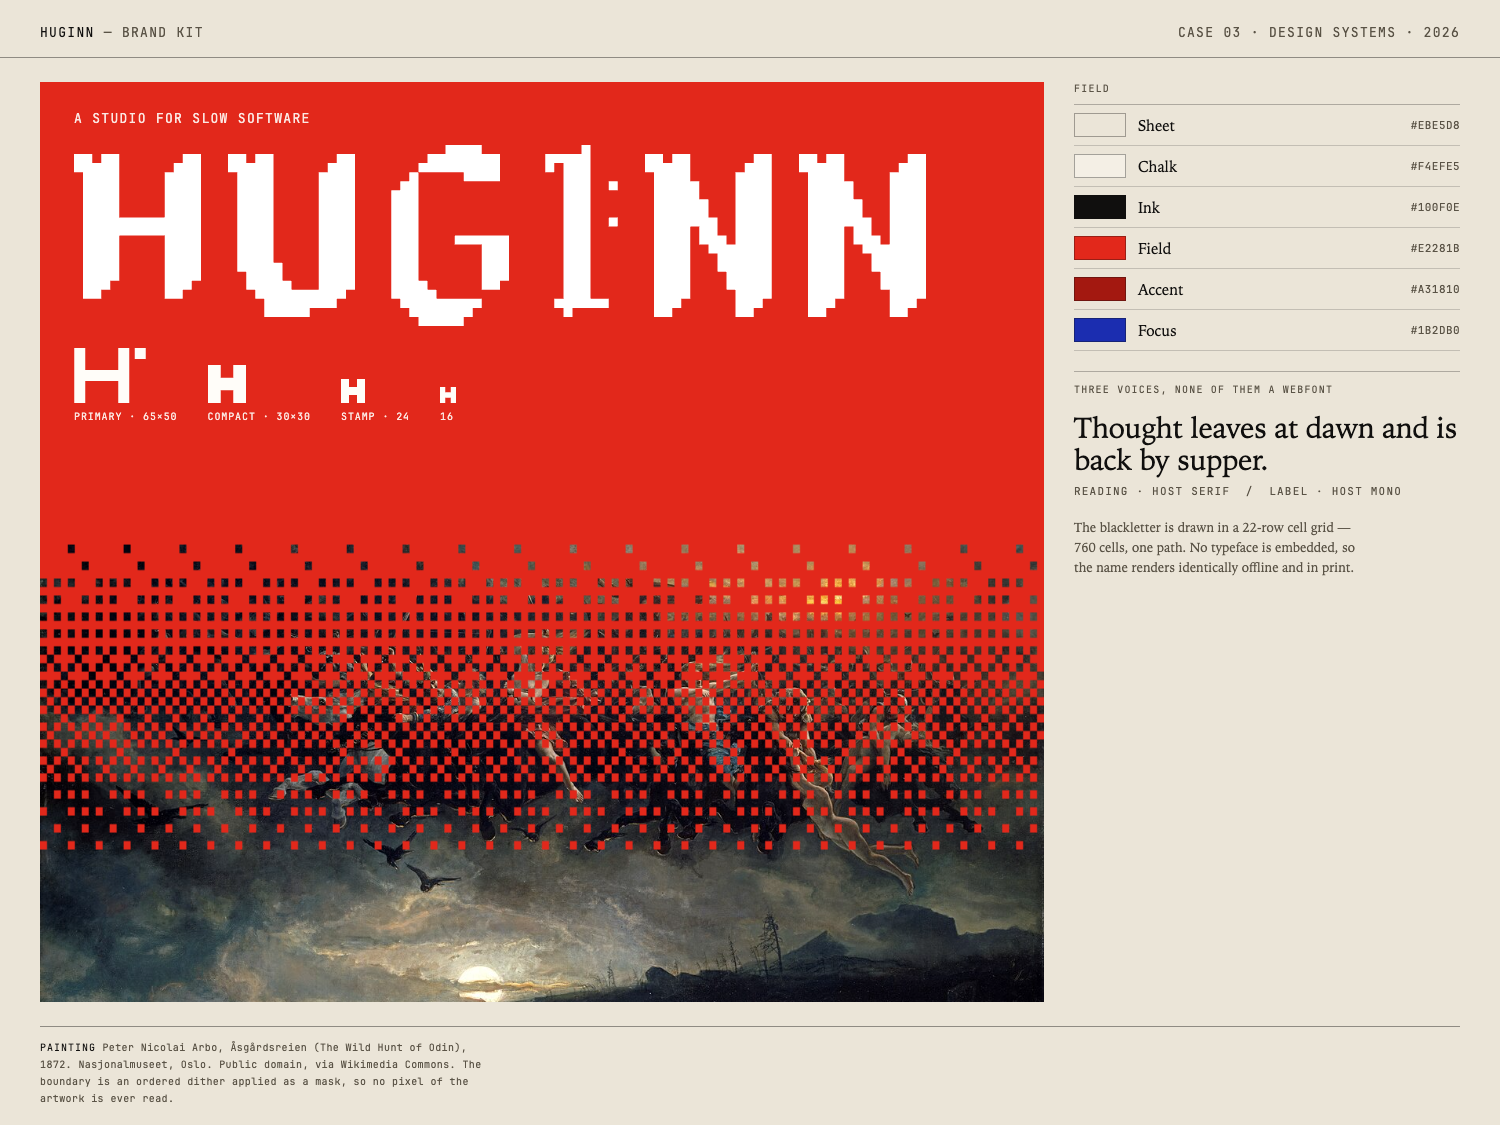
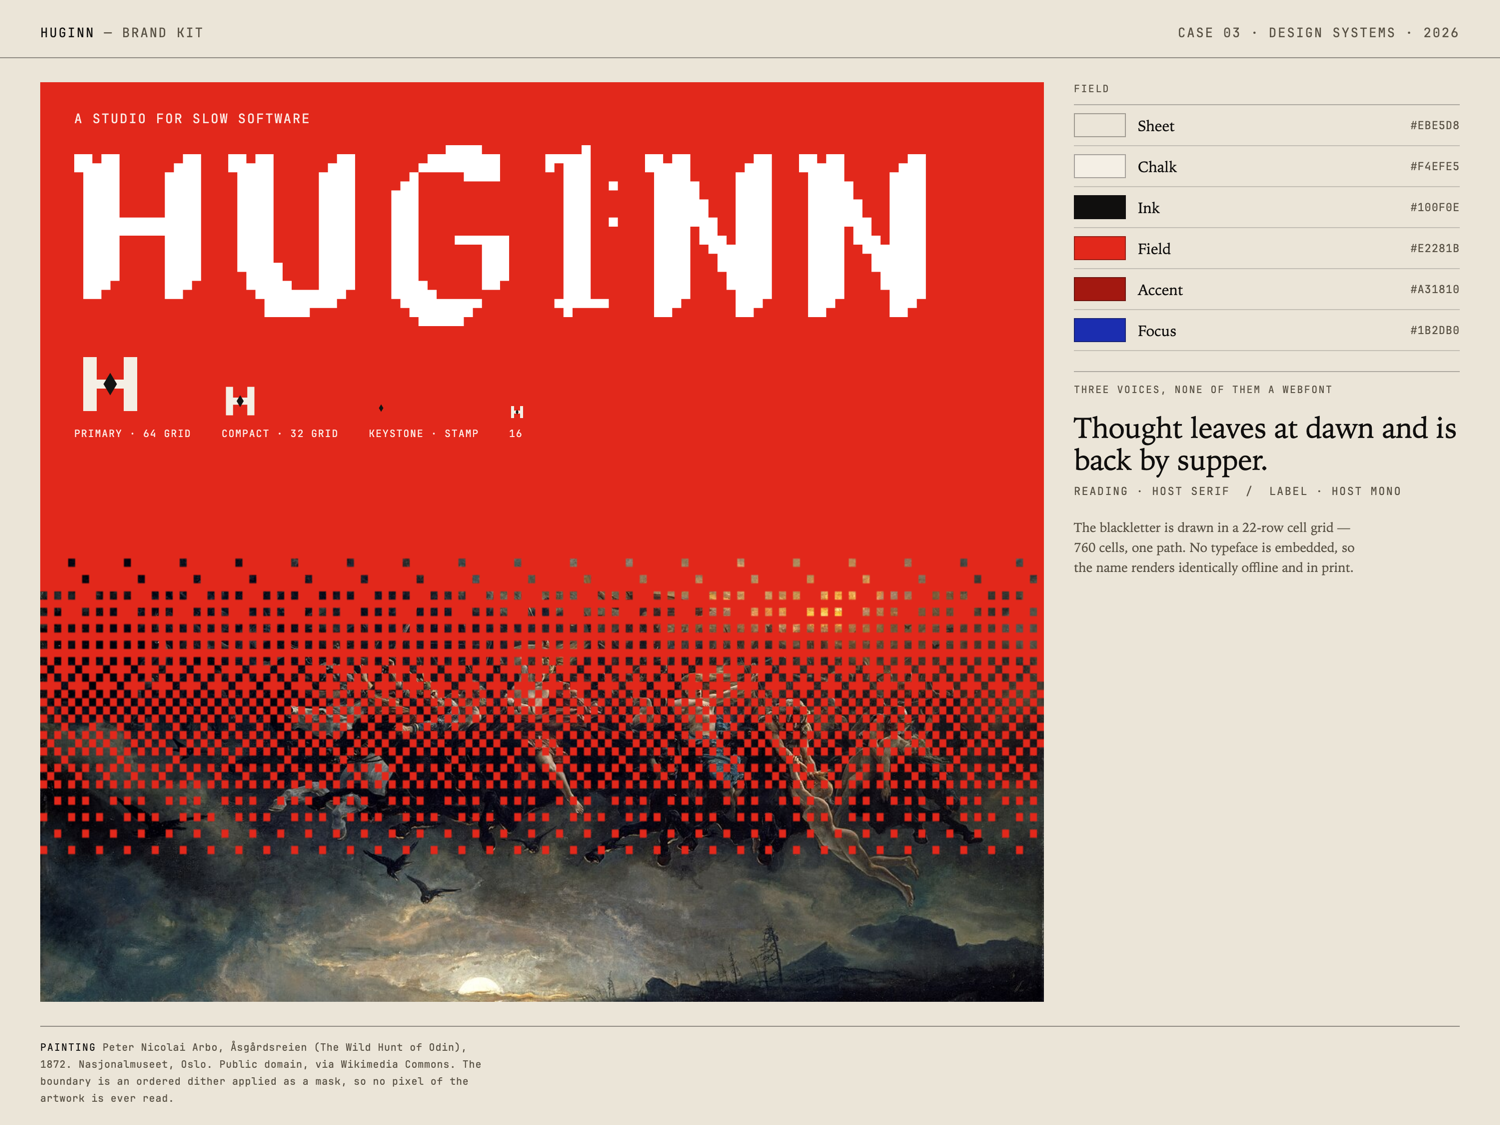
feat(huginn): replace the two-disc lens with an architectural H
Two solid L-brackets face each other into the H; the bridge is a vermilion
diamond keystone (#E03C1F) and the counters are the negative space. No circle,
no stroke, no detached part.

- scripts/build-huginn-mark.mjs is the single source: mark, compact (32 grid,
  wider channels), keystone, mono, lockup, favicons 16/32/180 and the specimen
  symbols.
- the specimen sets --hug-mark-ink/-key so the mark is #141413 on paper and
  #F4EFE5 on night while the keystone stays vermilion.
- DESIGN, brief, README, audit, llms and the board describe the bracket H; the
  cell-grid rule keeps the bracket H as its one named exception.

diff --git a/features/design-engineering/design-engineering-data.ts b/features/design-engineering/design-engineering-data.ts
@@ -357,13 +357,13 @@ export const HUGINN_CASE = {
   library: '/design-system',
   cover: '/brand/huginn/huginn-brandkit.png',
   coverAlt:
-    'The Huginn brand board: the missing-cell mark, the drawn blackletter wordmark, the vermilion field and the painting dissolving into it through an ordered dither.',
+    'The Huginn brand board: the two-bracket keystone mark, the drawn blackletter wordmark, the vermilion field and the painting dissolving into it through an ordered dither.',
   brief:
     'Give a two-city software studio an identity that depends on a drawing rather than a font: one bone sheet, one vermilion field, a blackletter wordmark cut into a 22-row cell grid, and a painting dissolved into that field by an ordered dither. The case proves the language with a native form kit and a configurable footer, then measures what it shipped.',
   decisions: [
     {
-      title: 'The missing cell is the logo.',
-      line: 'The H sits one half-cell to the right of its stem, still in the air. The omission is why the mark reads at 16px, and why it is never redrawn or cleaned up.',
+      title: 'Two brackets, one bridge.',
+      line: 'The H is cut into two interlocking L-beams; the vermilion diamond keystone is the only loud thing. No strokes, no circles, and the compact widens the channels.',
     },
     {
       title: 'The wordmark is a drawing, not a face.',
@@ -397,7 +397,7 @@ export const RISO_CASE = {
   library: '/design-system',
   cover: '/brand/riso/riso-brandkit.png',
   coverAlt:
-    'The Riso Co. brand board: a fluorescent orange sheet pulled 2.2mm off its federal blue pass, the deckle-edged mark on a 64-unit grid, five ink chips, the outlined wordmark at three favicon sizes, and the torn sheet edge.',
+    'The Riso Co. brand board: a fluorescent orange sheet pulled 2.2mm off its federal blue pass, the two-sheet overprint mark, five ink chips, the outlined wordmark at three favicon sizes, and the torn sheet edge.',
   brief:
     'A risograph prints one drum at a time, so the second impression never lands exactly on the first. Most digital riso pastiche hides that; Riso Co. makes it the rule. Every element is printed twice — fluorescent orange and federal blue — and the 2.5px misregistration is the identity rather than a defect to be corrected.',
   decisions: [
@@ -406,8 +406,8 @@ export const RISO_CASE = {
       line: 'One CSS variable, `--rs-reg`, offsets every display element. A slider in the specimen runs 0–6px so the reader can pull the sheet back into register and watch the idea disappear.',
     },
     {
-      title: 'The mark is the sheet, not a letter.',
-      line: 'A drawn two-pass rectangle on a 64-unit grid, its bottom edge carrying seven ridge points and two deep bites. One path with two strokes, so it still reads at 16px where a monogram would turn to mud.',
+      title: 'The mark is the press behaviour.',
+      line: 'Two sheared sheets are the two drum passes; the overlap is a solid overprint polygon. No strokes, no circles, so the mark survives a favicon and a PDF.',
     },
     {
       title: 'The overprint is measured, not blended.',
@@ -415,7 +415,7 @@ export const RISO_CASE = {
     },
   ],
   outcomes: [
-    'A mark family at 64/32/16px plus a registration target, an outlined wordmark and a lockup — all SVG, no live text, no webfont dependency.',
+    'A mark family at 64/32/16px plus a mono union, an outlined wordmark and a lockup — all SVG, no live text, no webfont dependency.',
     'Three token layers with 16 contrast pairs computed in the build rather than typed, including the one pair that fails: orange as body type at 2.88:1, documented as fills-only.',
     'A native form kit with default, focus, invalid, disabled and success states, and an error summary that moves focus to the first bad field.',
     'The pushpin tear footer rebuilt as a print specimen, with a seed control that re-tears the sheet on demand.',

diff --git a/features/case-library/cases.ts b/features/case-library/cases.ts
@@ -63,7 +63,7 @@ export const DESIGN_CASES: readonly DesignCase[] = [
     material: 'Paper + ink + vermilion',
     cover: '/brand/huginn/huginn-brandkit.png',
     coverAlt:
-      'The Huginn brand board: the missing-cell mark, the drawn blackletter wordmark, the vermilion field, and the painting dissolving into it through an ordered dither.',
+      'The Huginn brand board: the two-bracket keystone mark, the drawn blackletter wordmark, the vermilion field, and the painting dissolving into it through an ordered dither.',
     tags: ['Print', 'Dither', 'Blackletter', 'Forms'],
     tone: 'huginn',
   },
@@ -79,7 +79,7 @@ export const DESIGN_CASES: readonly DesignCase[] = [
     material: 'Paper + orange + blue',
     cover: '/brand/riso/riso-brandkit.png',
     coverAlt:
-      'The Riso Co. brand board: an orange sheet pulled 2.2mm off its blue pass, the deckle-edged mark, five ink chips, the outlined wordmark at three favicon sizes and a torn sheet edge.',
+      'The Riso Co. brand board: an orange sheet pulled 2.2mm off its blue pass, the two-sheet overprint mark, five ink chips, the outlined wordmark at three favicon sizes and a torn sheet edge.',
     tags: ['Risograph', 'Misregistration', 'Overprint', 'Deckle Tear'],
     tone: 'riso',
   },
@@ -89,13 +89,13 @@ export const DESIGN_CASES: readonly DesignCase[] = [
     href: '/design-system/hachure',
     tagline: 'Relief drawn by density, never by shadow.',
     description:
-      'A cartographic interface system built from the supplied ridgeline footer: six ridges from one seed, seven tones from one paper, an H that prints into its own paper, and a footer you can read an altitude off. Every contrast pair is measured in the build.',
+      'A cartographic interface system built from the supplied ridgeline footer: six ridges from one seed, seven tones from one paper, a lichen-capped ridge of solid bars, and a footer you can read an altitude off. Every contrast pair is measured in the build.',
     status: 'Shipped · 2026',
     role: 'Identity · design system · dither engine · form kit',
     material: 'Survey paper + lichen + ordered dither',
     cover: '/brand/hachure/hachure-brandkit.png',
     coverAlt:
-      'The Hachure brand board: a 3 × 3 identity deck on a night table — the H mark printing into paper, the outlined mono wordmark, the dither plate, the seven-tone ramp, the field sheet and the form kit.',
+      'The Hachure brand board: a 3 × 3 identity deck on a night table — the solid ridge mark, the outlined mono wordmark, the dither plate, the seven-tone ramp, the field sheet and the form kit.',
     tags: ['Hachure', 'Bayer Dither', 'Survey', 'Altimeter'],
     tone: 'hachure',
   },

diff --git a/design/brand/huginn/brandkit.html b/design/brand/huginn/brandkit.html
@@ -79,27 +79,26 @@
 
     <div class="markrow">
       <figure>
-        <svg width="72" height="55" viewBox="0 0 65 50" aria-label="Primary mark">
-          <path d="M0 0h10v10h-10zM40 0h10v10h-10zM0 10h10v10h-10zM40 10h10v10h-10zM0 20h50v10h-50zM0 30h10v10h-10zM40 30h10v10h-10zM0 40h10v10h-10zM40 40h10v10h-10z"/>
-          <rect x="55" y="0" width="10" height="10"/>
+        <svg width="72" height="72" viewBox="0 0 64 64" aria-label="Primary mark">
+          <path d="M8 8H20V28H30V36H20V56H8Z" fill="#F4EFE5"/><path d="M56 8H44V28H34V36H44V56H56Z" fill="#F4EFE5"/><path d="M32 22L38 32L32 42L26 32Z" fill="#141413"/>
         </svg>
-        <figcaption>Primary · 65×50</figcaption>
+        <figcaption>Primary · 64 grid</figcaption>
       </figure>
       <figure>
-        <svg width="38" height="38" viewBox="0 0 30 30" aria-label="Compact mark">
-          <path d="M0 0h10v10h-10zM20 0h10v10h-10zM0 10h30v10h-30zM0 20h10v10h-10zM20 20h10v10h-10z"/>
+        <svg width="38" height="38" viewBox="0 0 32 32" aria-label="Compact mark">
+          <path d="M4 4H10V13H15V19H10V28H4Z" fill="#F4EFE5"/><path d="M28 4H22V13H17V19H22V28H28Z" fill="#F4EFE5"/><path d="M16 11L19 16L16 21L13 16Z" fill="#141413"/>
         </svg>
-        <figcaption>Compact · 30×30</figcaption>
+        <figcaption>Compact · 32 grid</figcaption>
       </figure>
       <figure>
-        <svg width="24" height="24" viewBox="0 0 30 30" aria-label="Stamp">
-          <path d="M0 0h10v10h-10zM20 0h10v10h-10zM0 10h30v10h-30zM0 20h10v10h-10zM20 20h10v10h-10z"/>
+        <svg width="24" height="24" viewBox="0 0 64 64" aria-label="Keystone stamp">
+          <path d="M32 22L38 32L32 42L26 32Z" fill="#141413"/>
         </svg>
-        <figcaption>Stamp · 24</figcaption>
+        <figcaption>Keystone · stamp</figcaption>
       </figure>
       <figure>
-        <svg width="16" height="16" viewBox="0 0 30 30" aria-label="Favicon">
-          <path d="M0 0h10v10h-10zM20 0h10v10h-10zM0 10h30v10h-30zM0 20h10v10h-10zM20 20h10v10h-10z"/>
+        <svg width="16" height="16" viewBox="0 0 32 32" aria-label="Favicon">
+          <path d="M4 4H10V13H15V19H10V28H4Z" fill="#F4EFE5"/><path d="M28 4H22V13H17V19H22V28H28Z" fill="#F4EFE5"/><path d="M16 11L19 16L16 21L13 16Z" fill="#141413"/>
         </svg>
         <figcaption>16</figcaption>
       </figure>

diff --git a/app/design-system/huginn/llms.txt/route.ts b/app/design-system/huginn/llms.txt/route.ts
@@ -48,16 +48,17 @@ Huginn is Case 03 in the design-system library: a print-first identity for a fic
 
 ## Direction
 
-Everything follows from one sentence: a picture becomes cells, a name becomes cells. The painting is reduced to an ordered dither, the wordmark is cut from a 22-row cell grid, and the dissolve between them runs the same grid at a different resolution. One operation, three scales.
+Everything follows from one sentence: a picture becomes cells, a name becomes cells. The painting is reduced to an ordered dither, the wordmark is cut from a 22-row cell grid, and the dissolve between them runs the same grid at a different resolution. One operation, three scales. The mark is the named exception: an architectural H of two solid brackets and a vermilion keystone, because the name is a relationship, not a picture; it keeps the palette and the one-field rule.
 
 The reference is the printed broadside — one colour, no resolution, type set by hand — not a dashboard. Corners are cut, not rounded. Nothing loops.
 
 ## Mark
 
-The H is missing a cell. It sits one half-cell to the right of the stem, in the air, still flying. That omission is the whole logo: it is why the mark reads at 16px, and it is why the mark is never redrawn or cleaned up.
+Two solid L-brackets, mirrored and almost meeting; the bridge of the H is a vermilion diamond keystone. No stroke, no circle, no detached part. The counters are the negative space.
 
-- Primary: 65 × 50, stray cell included. Clear space is one cell on every side.
-- Compact: 30 × 30, single glyph, stray cell dropped — below 16px the flying cell is noise.
+- Primary: 64 × 64, brackets \`M8 8H20V28H30V36H20V56H8Z\` and mirror, keystone \`M32 22L38 32L32 42L26 32Z\`; brackets #141413 on paper and #F4EFE5 on night, keystone #E03C1F.
+- Compact: 32 × 32, a separate drawing with wider channels; no thin strokes.
+- Stamp: the field favicon uses paper brackets on #E03C1F with an ink keystone; it reads at 16px.
 - Wordmark: 950 × 200, 95 columns, 760 cells, one path. Never live text.
 
 ## Palette

diff --git a/app/design-system/page.tsx b/app/design-system/page.tsx
@@ -8,7 +8,7 @@ import { breadcrumbList, itemList, JsonLd } from '@/lib/structured-data'
 export const metadata: Metadata = {
   title: 'Design Systems — Case Library',
   description:
-    'Documented design systems: Sunnyside (paper and cobalt), Vitrine (glass and dither), Huginn Studio (bone, vermilion and print), Riso Co. (torn poster and pushpin physics), and Hachure (survey paper and ordered dither). Briefs, marks, tokens, form kits and audits.',
+    'Documented design systems: Sunnyside (paper and cobalt), Vitrine (glass and dither), Huginn Studio (bone, vermilion and print), Riso Co. (two-pass print and pushpin physics), and Hachure (survey paper and ordered dither). Briefs, marks, tokens, form kits and audits.',
   alternates: { canonical: '/design-system' },
   openGraph: {
     title: 'Design Systems — Case Library | Aditya Himawan',
@@ -50,7 +50,7 @@ export default function DesignSystemLibraryPage() {
   const list = itemList({
     name: 'Design systems — case library',
     description:
-      'Documented design systems: Sunnyside (paper and cobalt), Vitrine (glass and dither), Huginn Studio (bone, vermilion and ordered print), Riso Co. (torn poster and pushpin physics) and Hachure (survey paper and ordered dither).',
+      'Documented design systems: Sunnyside (paper and cobalt), Vitrine (glass and dither), Huginn Studio (bone, vermilion and ordered print), Riso Co. (two-pass print and pushpin physics) and Hachure (survey paper and ordered dither).',
     items: DESIGN_CASES.map((item) => ({
       name: `${item.number} — ${item.name}`,
       url: `${WEBSITE_URL}${item.href}`,

diff --git a/app/design-system/huginn/page.tsx b/app/design-system/huginn/page.tsx
@@ -21,7 +21,7 @@ export const metadata: Metadata = {
         url: '/brand/huginn/huginn-brandkit.png',
         width: 1500,
         height: 1125,
-        alt: 'The Huginn brand board: the missing-cell mark, the drawn blackletter wordmark, the vermilion field and the ordered-dither painting.',
+        alt: 'The Huginn brand board: the two-bracket keystone mark, the drawn blackletter wordmark, the vermilion field and the ordered-dither painting.',
       },
     ],
   },

diff --git a/features/design-engineering/design-engineering-page.tsx b/features/design-engineering/design-engineering-page.tsx
@@ -640,7 +640,7 @@ export function DesignEngineeringPage() {
                   sizes="(max-width: 900px) 100vw, 760px"
                 />
                 <figcaption>
-                  Huginn Studio — the missing-cell mark, the drawn blackletter
+                  Huginn Studio — the two-bracket keystone mark, the drawn blackletter
                   wordmark, the vermilion field and the painting dissolving
                   into it.
                 </figcaption>

diff --git a/design/brand/huginn/README.md b/design/brand/huginn/README.md
@@ -24,16 +24,14 @@ The identity depends on a drawing, not on a font. That is both the promise and
 the constraint that produced the look: no webfont to load, no licence to buy, no
 platform where the wordmark falls back to something else.
 
-The **H is missing a cell**. It sits one half-cell to the right of the stem, in
-the air, still flying. The omission is the whole logo — it is why the mark reads
-at 16px, and it is why the mark is never redrawn or cleaned up.
+**Two brackets, one bridge.** The H is cut into two solid L-beams; the
+vermilion diamond keystone is the only loud thing.
 
-- Primary: 65 × 50, stray cell included. Clear space is one cell on every side.
-- Compact: 30 × 30, single glyph, stray cell dropped — below 16px the flying
-  cell is noise.
+- Primary: 64 × 64, two brackets + a keystone, no strokes.
+- Compact: 32 × 32, the same two brackets at half scale with wider channels.
 - Wordmark: 950 × 200, 95 columns, 760 cells, one path. Never live text.
-- Favicons are generated from the primary mark, not redrawn: 16, 32, 180, 192,
-  512, plus a 32px SVG for the case route.
+- Favicons are rendered from the compact stamp, not redrawn per size: 16, 32,
+  180, 192, 512, plus a 32px SVG for the case route.
 
 ## Palette and type
 
@@ -84,10 +82,10 @@ the portfolio's global footer and must not be attached to the site shell.
 ## Do / don't
 
 **Do** use the red as a single field, keep body text on opaque surfaces,
-attribute the painting, test the mark at 16px, and keep the stray cell.
+attribute the painting, test the mark at 16px, and keep the keystone attached to the two brackets.
 
 **Don't** add a raven mascot, distribute runes as decoration, place small copy on
-the painting, use colour as the only state cue, or clean up the missing cell.
+the painting, use colour as the only state cue, or detach the keystone and call it the logo.
 
 ## Audit
 

diff --git a/public/brand/huginn/README.md b/public/brand/huginn/README.md
@@ -18,8 +18,10 @@ blackletter wordmark cut from a 22-row cell grid.
 
 | File | Use |
 | --- | --- |
-| `mark.svg` | primary mark, 65 × 50. The H is missing a cell — the stray cell is part of the mark |
-| `mark-compact.svg` | 30 × 30 single glyph. Below 16 px the flying cell becomes noise, so it is dropped |
+| `mark.svg` | primary mark, 64 × 64. Two brackets; the keystone is the field vermilion |
+| `mark-compact.svg` | 32 × 32. The same two brackets at half scale, wider channels |
+| `keystone.svg` | the vermilion diamond alone; the stamp and the only accent |
+| `mark-mono.svg` | the same drawing in one ink; no field, no stroke |
 | `wordmark.svg` | 950 × 200, 95 columns, 760 cells, one path. Outlined — never live text |
 | `lockup.svg` | mark + name, 329 × 50 |
 | `favicon.svg`, `favicon-{16,32,180}.svg` | the stamp at four sizes |
@@ -31,12 +33,14 @@ blackletter wordmark cut from a 22-row cell grid.
 
 ## The mark
 
-The H is missing a cell. It sits one half-cell to the right of the stem, in the
-air, still flying. That omission is the whole logo: it is why the mark reads at
-16 px, and why it is never redrawn, outlined or "cleaned up".
+Two brackets, one bridge. Two solid L-brackets face each other; the H's bridge
+is a vermilion diamond keystone. The primary is never redrawn, outlined or
+"cleaned up".
 
-Clear space is one cell on every side, measured from the stray cell, which counts
-as part of the mark.
+Clear space is the 8-unit margin the 64 box already carries, measured from the
+outermost stem. The compact is the same two brackets at half scale with wider
+channels. The favicon on the field uses paper for the brackets and ink for the
+keystone, so it reads at 16 px.
 
 ## Colour
 

diff --git a/design/brand/huginn/brief.md b/design/brand/huginn/brief.md
@@ -68,8 +68,8 @@ like it has a point of view.
 
 ```
 design-system.html                  the specimen, 11 sections, light + dark
-brand/mark.svg                      65 × 50   primary mark
-brand/mark-compact.svg              30 × 30   one-glyph stamp
+brand/mark.svg                      64 × 64   primary mark, two brackets + keystone
+brand/mark-compact.svg              32 × 32   compact, wider channels
 brand/wordmark.svg                  950 × 200 outlined, 760 cells
 brand/lockup.svg                    329 × 50  mark + name
 brand/favicons/favicon{-16,-32,-180}.svg
